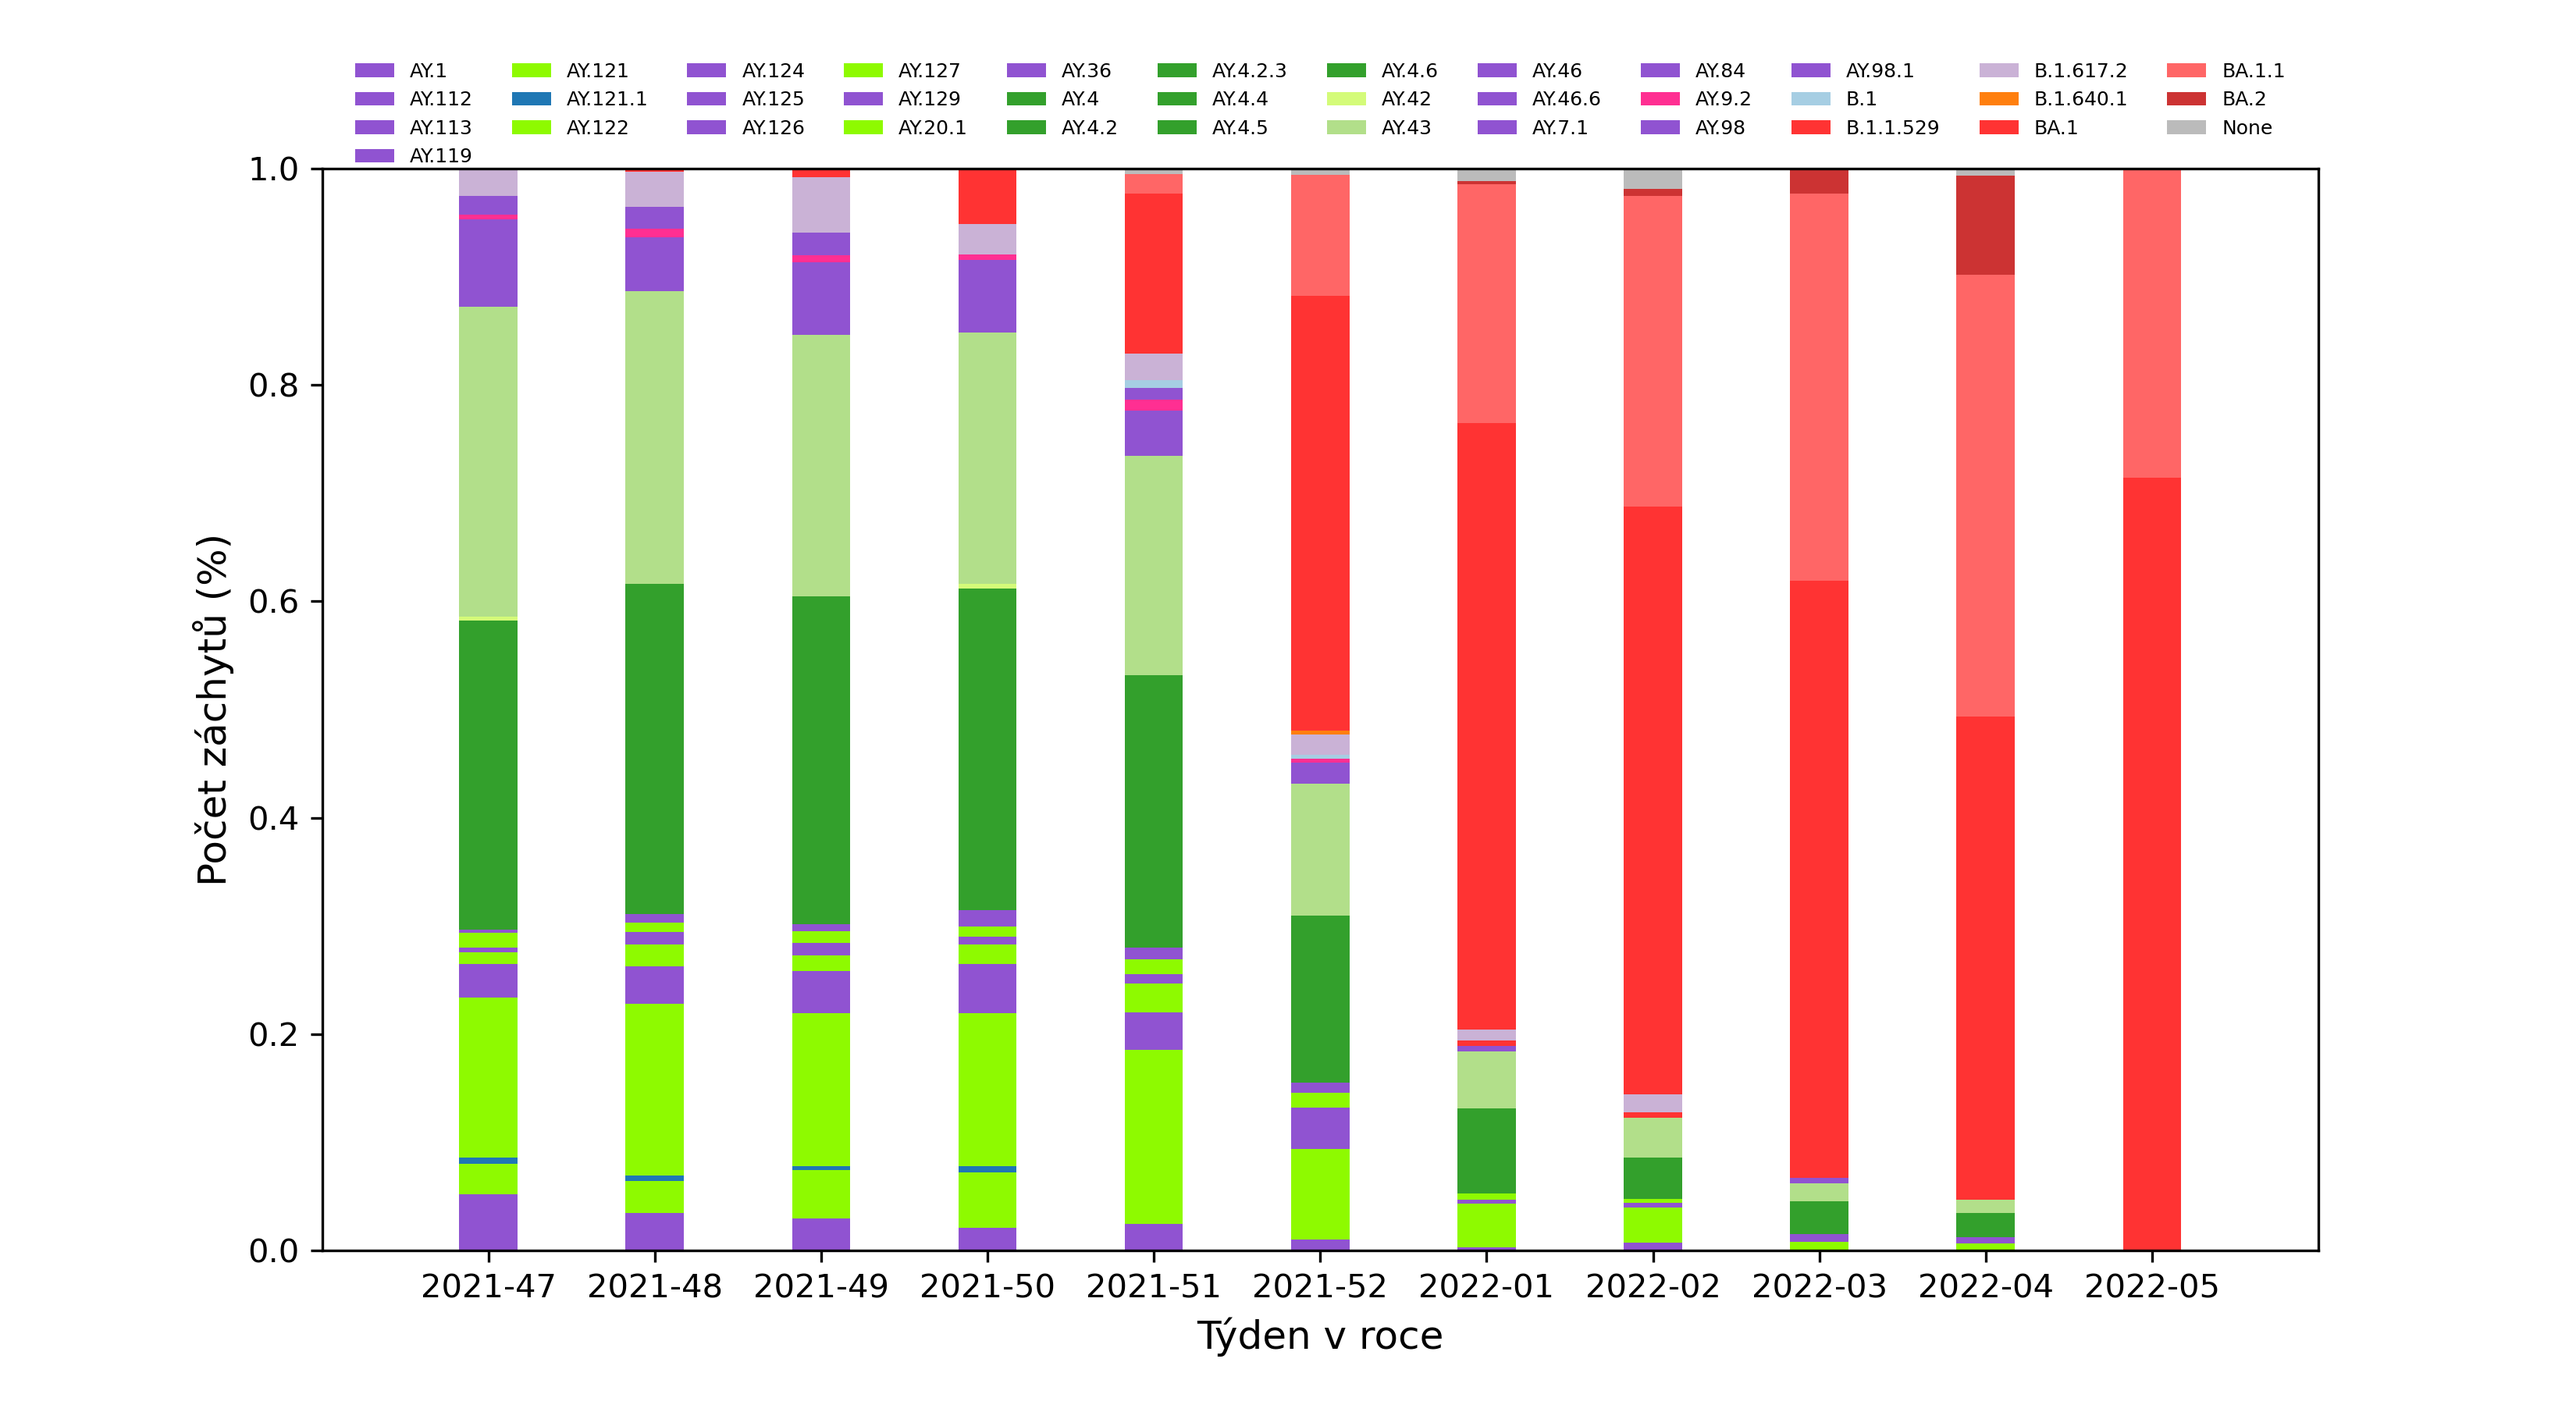
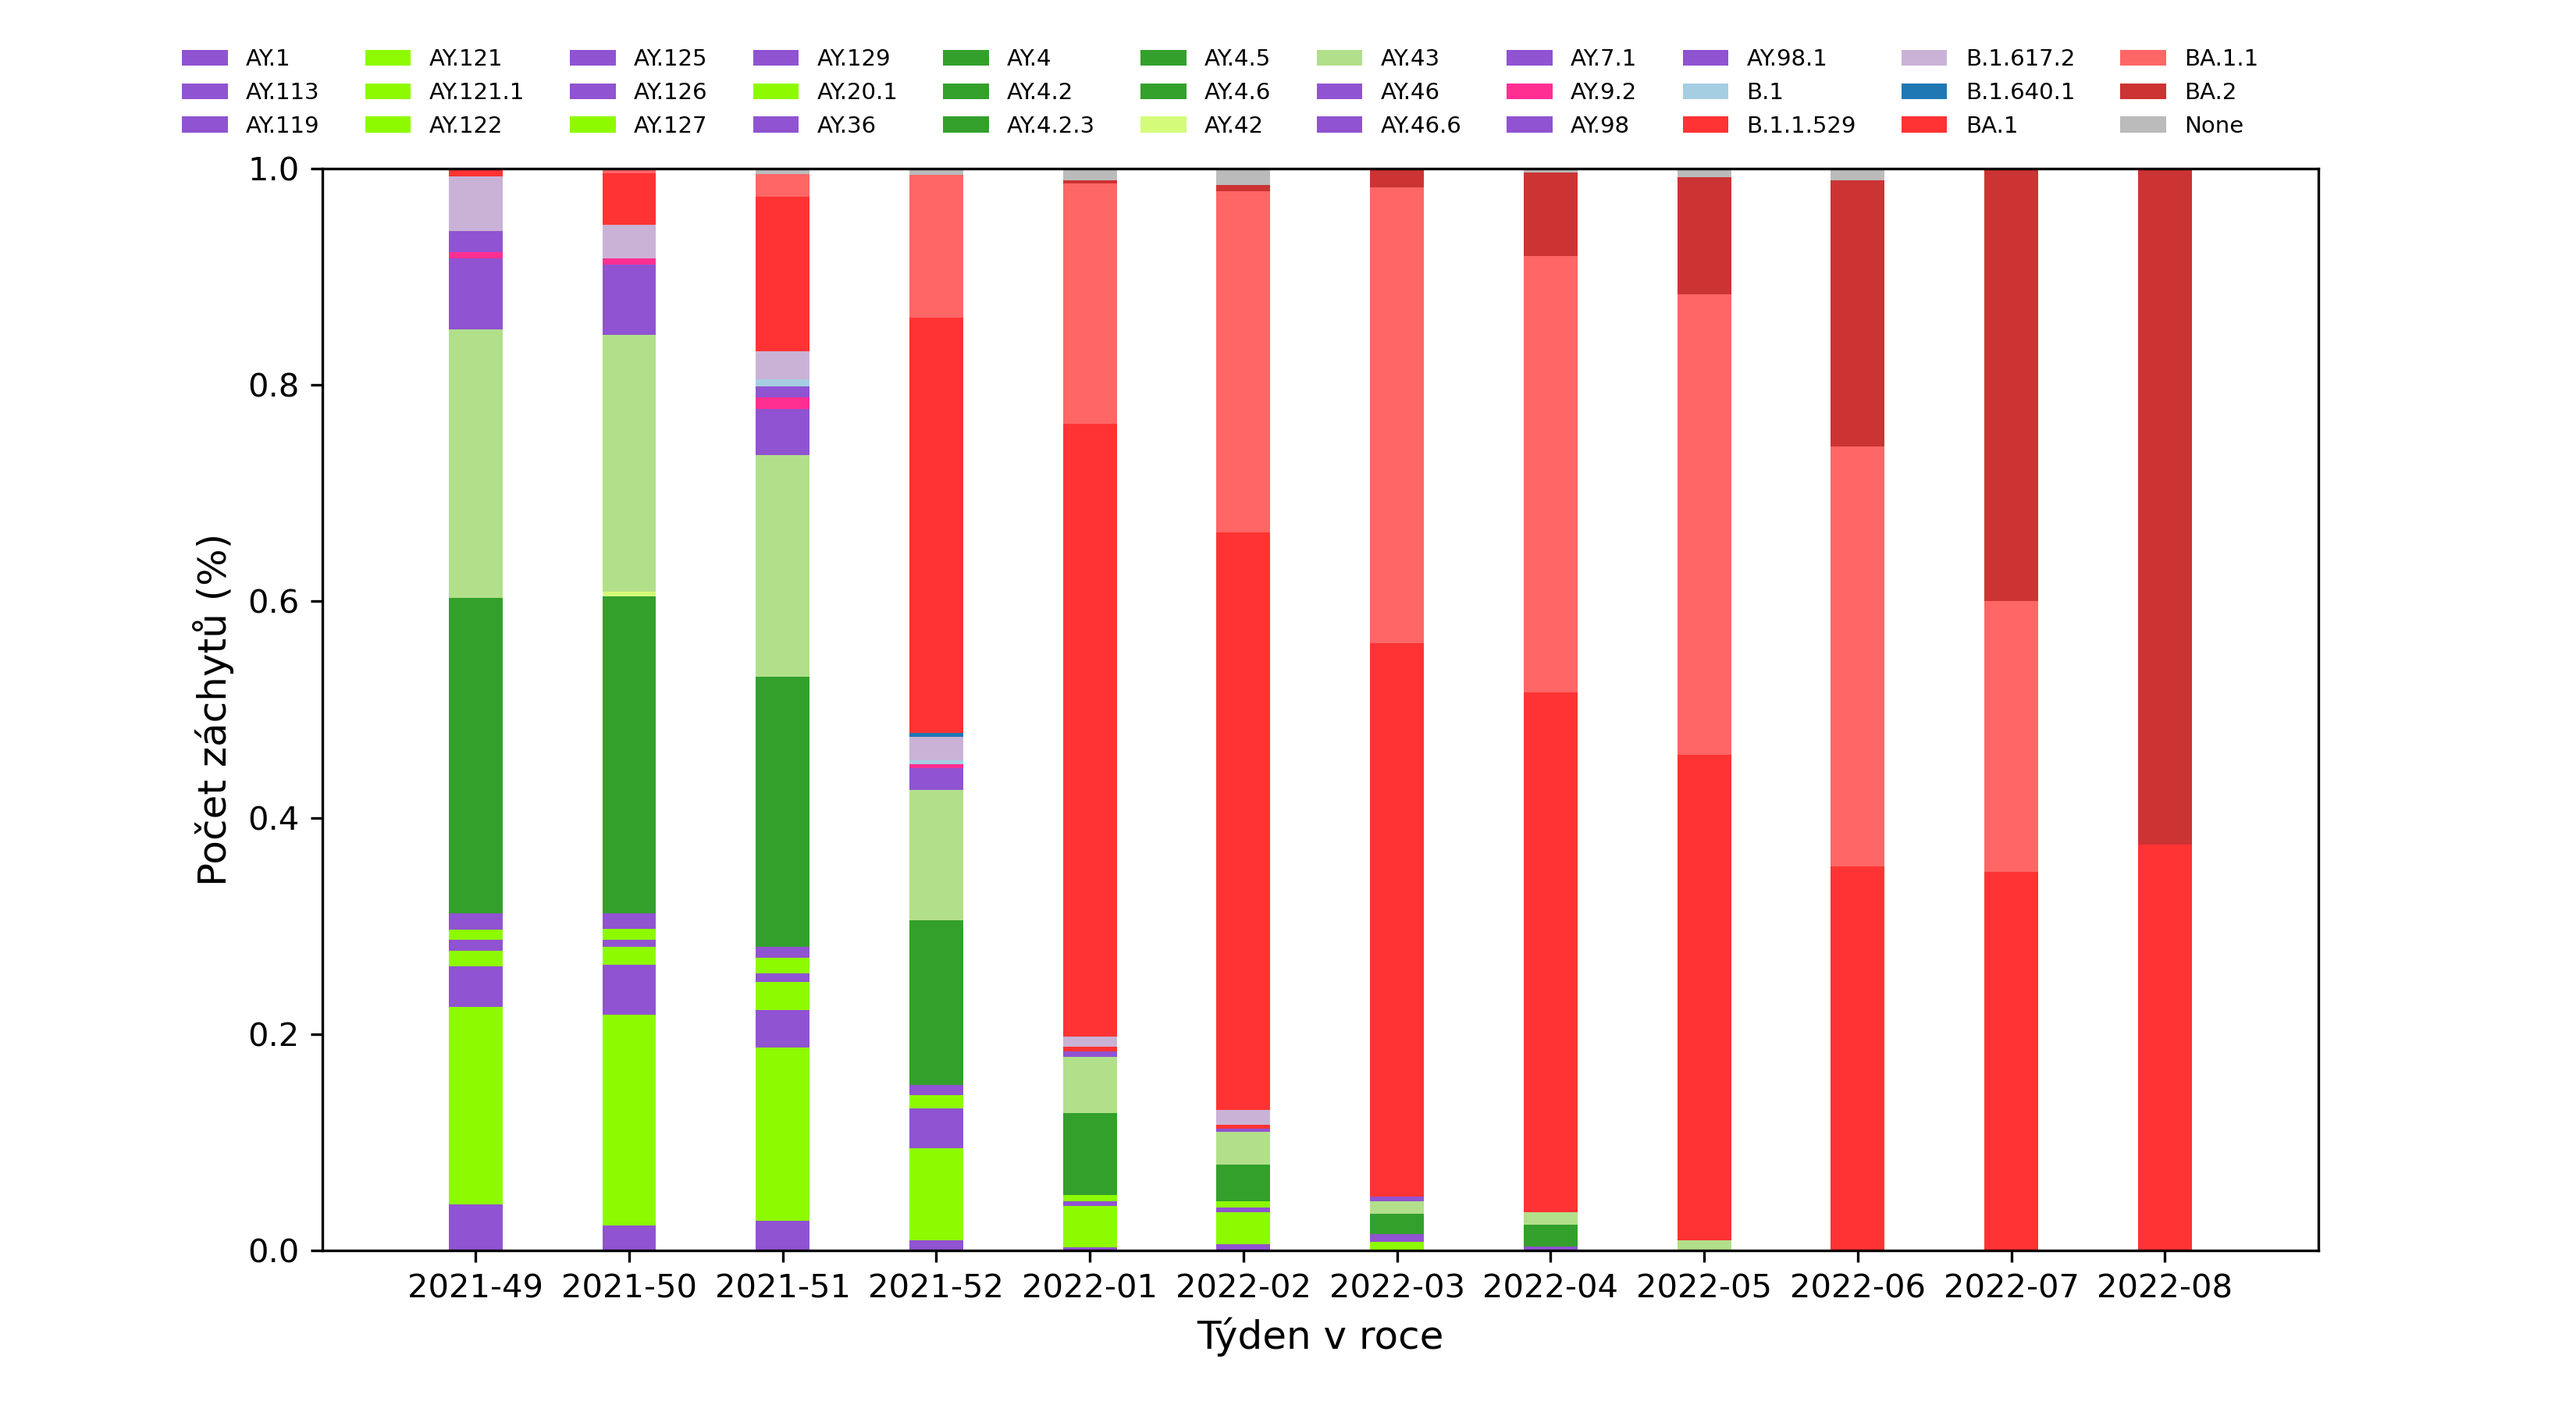
week 8 2022 Z1

diff --git a/input/hmedova/shrnuti.html b/input/hmedova/shrnuti.html
@@ -15,7 +15,7 @@
     Zaznamenáno bylo {{LINEAGE_COUNTS}} linií SARS-CoV-2, 
     z&nbsp;toho dvě Varianty hodné pozornosti (VOC) dle stávající klasifikace ECDC.  
 
-    V rámci celého období se nadále vyskytovala převážně VOC Delta <nobr>(B.1.167.2)</nobr> a její subvarianty <nobr>AY.43</nobr>, <nobr>AY.4</nobr> a <nobr>AY.122</nobr>, nicméně byl zaznamenám rychlý vzestup počtu vzorků přiřazených k subvariantám VOC Omicron BA.1, BA.1.1 a BA.2, které v posledních týdnech výrazně převažují nad variantou VOC Delta.
+    Od počátku roku 2022 převládají vzorky přiřazené k k subvariantám VOC Omicron BA.1, BA.1.1 a BA.2. Byl zaznamenán výskyt BA.3. Nadále se vyskytuje VOC Delta <nobr>(B.1.167.2)</nobr>, a převážně její subvarianty <nobr>AY.43</nobr>, <nobr>AY.4</nobr> a <nobr>AY.122</nobr>, nicméně od počátku tohoto roku se jedná o minoritní podíl. 
     
     <span style="display:block; height: 15px;"></span>
 Vzorky přiřazené k&nbsp;variantě BA.1 nesou velmi často mutace ve&nbsp;spike proteinu S:K417N, S:N440K, S:G446S, a v&nbsp;menší míře S:A701V. Tyto mutace se vyskytují přibližně ve 40% vzorků varianty BA.1 celosvětově, v České republice je to až 80% vzorků.
